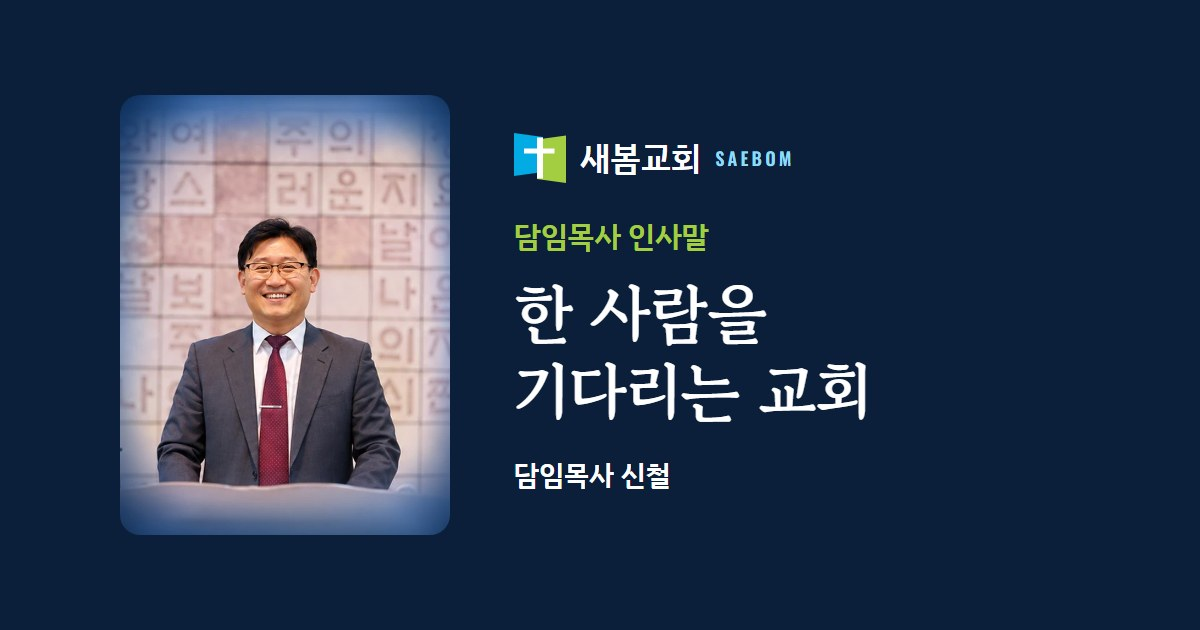
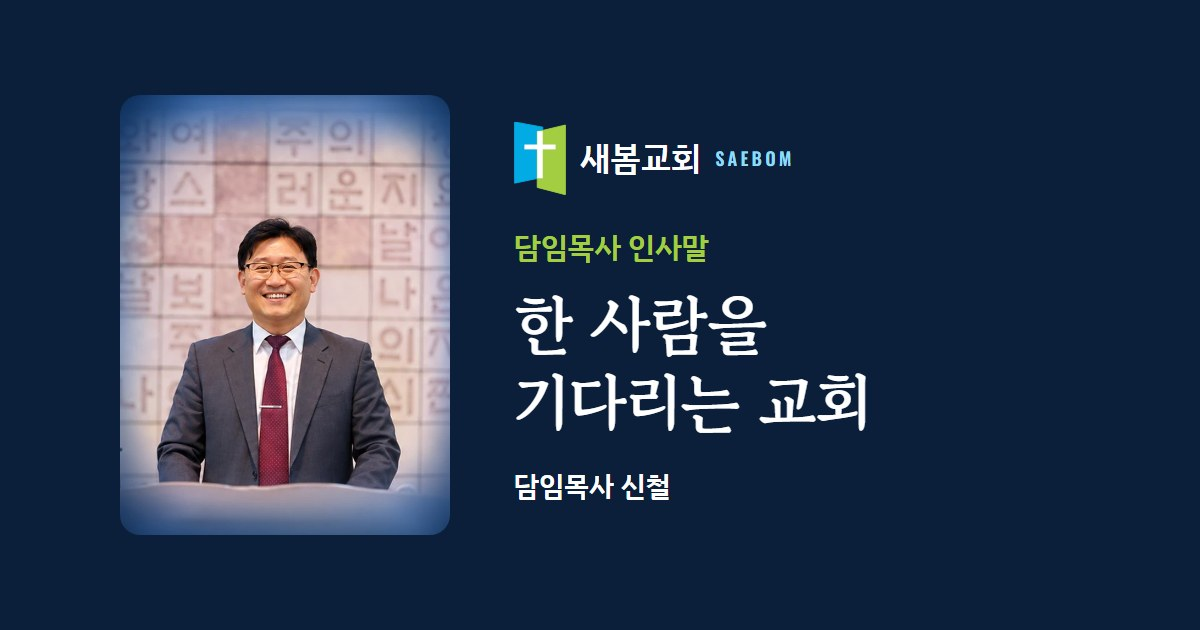
상단 교회 마크 비율 복원(세로형) · 크기 확대(48/40px) · 하단·공유 카드·파비콘 동일 적용
Claude-Session: https://claude.ai/code/session_01RPRtpzurfYbav9nAjE6pkM

diff --git a/index.html b/index.html
@@ -38,7 +38,7 @@
 <body class="dE p-index">
 <a class="skip" href="#main">본문으로 건너뛰기</a>
 <header class="hd"><div class="wrap hd-in">
-<a class="brand" href="index.html"><img src="assets/mark.svg" alt="" width="36" height="35"><span class="bn">새봄교회</span><span class="wm" aria-hidden="true">SAEBOM</span></a>
+<a class="brand" href="index.html"><img src="assets/mark.svg" alt="" width="34" height="48"><span class="bn">새봄교회</span><span class="wm" aria-hidden="true">SAEBOM</span></a>
 <nav class="nav-d" aria-label="주 메뉴"><ul><li><a href="index.html" aria-current="page">홈</a></li><li><a href="welcome.html">처음 오신 분</a></li><li><a href="about.html">교회 소개</a></li><li><a href="greeting.html">인사말</a></li><li><a href="worship.html">예배·모임</a></li><li><a href="sermons.html">말씀</a></li><li><a href="news.html">소식·주보</a></li><li><a href="directions.html">오시는 길</a></li><li><a href="organization.html">단체 정보</a></li><li><a href="en.html">English</a></li></ul></nav>
 <details class="nav-m"><summary><span class="bars" aria-hidden="true"></span><span>메뉴</span></summary><nav aria-label="주 메뉴(휴대폰)"><ul><li><a href="index.html" aria-current="page">홈</a></li><li><a href="welcome.html">처음 오신 분</a></li><li><a href="about.html">교회 소개</a></li><li><a href="greeting.html">인사말</a></li><li><a href="worship.html">예배·모임</a></li><li><a href="sermons.html">말씀</a></li><li><a href="news.html">소식·주보</a></li><li><a href="directions.html">오시는 길</a></li><li><a href="organization.html">단체 정보</a></li><li><a href="en.html">English</a></li></ul></nav></details>
 </div></header>
@@ -93,7 +93,7 @@
 <div class="sec-head"><p class="eyebrow dark">매일 말씀</p><h2 id="d-t" class="h-xl">하루를 말씀으로 시작하세요</h2></div>
 <div class="apps2">
 <a class="app sky" href="https://cheol0929-thejoy.github.io/saebom/app/" rel="noopener" target="_blank"><picture><source type="image/webp" srcset="assets/photo/morning-480.webp 480w, assets/photo/morning-960.webp 960w" sizes="(min-width:900px) 540px, 100vw"><img src="assets/photo/morning-960.jpg" srcset="assets/photo/morning-480.jpg 480w, assets/photo/morning-960.jpg 960w" sizes="(min-width:900px) 540px, 100vw" alt="" width="960" height="640" loading="lazy"></picture><span class="chip">매일</span><b>오늘의 새봄묵상</b><span class="go">열기 <span aria-hidden="true">→</span></span></a>
-<a class="app lime" href="https://cheol0929-thejoy.github.io/saebom/achim/" rel="noopener" target="_blank"><span class="art" aria-hidden="true"><img src="assets/mark.svg" alt="" width="64" height="62"></span><span class="chip">매일</span><b>아침한권</b><span class="go">열기 <span aria-hidden="true">→</span></span></a>
+<a class="app lime" href="https://cheol0929-thejoy.github.io/saebom/achim/" rel="noopener" target="_blank"><span class="art" aria-hidden="true"><img src="assets/mark.svg" alt="" width="45" height="64"></span><span class="chip">매일</span><b>아침한권</b><span class="go">열기 <span aria-hidden="true">→</span></span></a>
 </div>
 </div></section>
 <section class="band lime-tint" aria-labelledby="g-t"><div class="wrap">

diff --git a/assets/theme.css b/assets/theme.css
@@ -18,7 +18,7 @@ p,ul,ol{margin:0 0 1em}
 .hd{background:var(--navy);color:#fff;position:relative;z-index:5}
 .hd-in{display:flex;align-items:center;justify-content:space-between;gap:16px;min-height:72px}
 .brand{display:flex;align-items:center;gap:12px;color:#fff;text-decoration:none}
-.brand img{width:36px;height:auto}
+.brand img{height:48px;width:auto;flex:0 0 auto}
 .brand .bn{font-weight:600;font-size:1.25rem;letter-spacing:-.01em}
 .brand .wm{font-family:var(--num);letter-spacing:.18em;font-size:.8rem;color:var(--sky-lt)}
 .nav-d ul,.nav-m ul{list-style:none;margin:0;padding:0}
@@ -123,7 +123,7 @@ p,ul,ol{margin:0 0 1em}
 .app.sky::after{content:"";position:absolute;inset:0;z-index:-1;background:linear-gradient(0deg,rgba(11,31,58,.88) 10%,rgba(11,31,58,.15) 80%)}
 .app.lime{background:var(--navy3)}
 .app .art{position:absolute;right:28px;top:28px;opacity:.95}
-.app .art img{width:64px}
+.app .art img{height:64px;width:auto}
 .app .chip{align-self:flex-start;font-size:.875rem;font-weight:700;letter-spacing:.1em;padding:4px 12px;border-radius:999px;margin-bottom:12px}
 .app.sky .chip{background:var(--sky);color:var(--navy)}
 .app.lime .chip{background:var(--lime);color:var(--navy)}
@@ -172,7 +172,7 @@ p,ul,ol{margin:0 0 1em}
 @media(min-width:900px){.visit-in{grid-template-columns:320px 1fr;gap:72px}}
 /* inner pages */
 .phero{background:var(--navy);color:#fff;padding:72px 0 64px;position:relative;overflow:hidden}
-.phero::after{content:"";position:absolute;right:max(24px,calc(50% - 536px));top:50%;width:160px;height:156px;transform:translateY(-50%);background:url(mark.svg) no-repeat center/contain;opacity:.2}
+.phero::after{content:"";position:absolute;right:max(24px,calc(50% - 536px));top:50%;width:120px;height:170px;transform:translateY(-50%);background:url(mark.svg) no-repeat center/contain;opacity:.2}
 .phero .wrap{padding-right:208px}
 @media(max-width:700px){.phero::after{display:none}.phero .wrap{padding-right:20px}}
 .phero h1{font-family:var(--serif);font-size:clamp(2.2rem,6vw,3.5rem);margin:0 0 12px;letter-spacing:-.02em}
@@ -244,7 +244,7 @@ tbody th{font-weight:600;white-space:nowrap}
 @media(max-width:600px){
  .wrap{padding:0 20px}
  .hd-in{min-height:64px}
- .brand img{width:32px}
+ .brand img{height:40px}
  .brand .wm{display:none}
  .hero-in{padding-top:72px;padding-bottom:56px;min-height:0;gap:32px}
  .band{padding:56px 0}.quote{padding:56px 0}

diff --git a/organization.html b/organization.html
@@ -38,7 +38,7 @@
 <body class="dE p-organization">
 <a class="skip" href="#main">본문으로 건너뛰기</a>
 <header class="hd"><div class="wrap hd-in">
-<a class="brand" href="index.html"><img src="assets/mark.svg" alt="" width="36" height="35"><span class="bn">새봄교회</span><span class="wm" aria-hidden="true">SAEBOM</span></a>
+<a class="brand" href="index.html"><img src="assets/mark.svg" alt="" width="34" height="48"><span class="bn">새봄교회</span><span class="wm" aria-hidden="true">SAEBOM</span></a>
 <nav class="nav-d" aria-label="주 메뉴"><ul><li><a href="index.html">홈</a></li><li><a href="welcome.html">처음 오신 분</a></li><li><a href="about.html">교회 소개</a></li><li><a href="greeting.html">인사말</a></li><li><a href="worship.html">예배·모임</a></li><li><a href="sermons.html">말씀</a></li><li><a href="news.html">소식·주보</a></li><li><a href="directions.html">오시는 길</a></li><li><a href="organization.html" aria-current="page">단체 정보</a></li><li><a href="en.html">English</a></li></ul></nav>
 <details class="nav-m"><summary><span class="bars" aria-hidden="true"></span><span>메뉴</span></summary><nav aria-label="주 메뉴(휴대폰)"><ul><li><a href="index.html">홈</a></li><li><a href="welcome.html">처음 오신 분</a></li><li><a href="about.html">교회 소개</a></li><li><a href="greeting.html">인사말</a></li><li><a href="worship.html">예배·모임</a></li><li><a href="sermons.html">말씀</a></li><li><a href="news.html">소식·주보</a></li><li><a href="directions.html">오시는 길</a></li><li><a href="organization.html" aria-current="page">단체 정보</a></li><li><a href="en.html">English</a></li></ul></nav></details>
 </div></header>

diff --git a/directions.html b/directions.html
@@ -38,7 +38,7 @@
 <body class="dE p-directions">
 <a class="skip" href="#main">본문으로 건너뛰기</a>
 <header class="hd"><div class="wrap hd-in">
-<a class="brand" href="index.html"><img src="assets/mark.svg" alt="" width="36" height="35"><span class="bn">새봄교회</span><span class="wm" aria-hidden="true">SAEBOM</span></a>
+<a class="brand" href="index.html"><img src="assets/mark.svg" alt="" width="34" height="48"><span class="bn">새봄교회</span><span class="wm" aria-hidden="true">SAEBOM</span></a>
 <nav class="nav-d" aria-label="주 메뉴"><ul><li><a href="index.html">홈</a></li><li><a href="welcome.html">처음 오신 분</a></li><li><a href="about.html">교회 소개</a></li><li><a href="greeting.html">인사말</a></li><li><a href="worship.html">예배·모임</a></li><li><a href="sermons.html">말씀</a></li><li><a href="news.html">소식·주보</a></li><li><a href="directions.html" aria-current="page">오시는 길</a></li><li><a href="organization.html">단체 정보</a></li><li><a href="en.html">English</a></li></ul></nav>
 <details class="nav-m"><summary><span class="bars" aria-hidden="true"></span><span>메뉴</span></summary><nav aria-label="주 메뉴(휴대폰)"><ul><li><a href="index.html">홈</a></li><li><a href="welcome.html">처음 오신 분</a></li><li><a href="about.html">교회 소개</a></li><li><a href="greeting.html">인사말</a></li><li><a href="worship.html">예배·모임</a></li><li><a href="sermons.html">말씀</a></li><li><a href="news.html">소식·주보</a></li><li><a href="directions.html" aria-current="page">오시는 길</a></li><li><a href="organization.html">단체 정보</a></li><li><a href="en.html">English</a></li></ul></nav></details>
 </div></header>

diff --git a/greeting.html b/greeting.html
@@ -38,7 +38,7 @@
 <body class="dE p-greeting">
 <a class="skip" href="#main">본문으로 건너뛰기</a>
 <header class="hd"><div class="wrap hd-in">
-<a class="brand" href="index.html"><img src="assets/mark.svg" alt="" width="36" height="35"><span class="bn">새봄교회</span><span class="wm" aria-hidden="true">SAEBOM</span></a>
+<a class="brand" href="index.html"><img src="assets/mark.svg" alt="" width="34" height="48"><span class="bn">새봄교회</span><span class="wm" aria-hidden="true">SAEBOM</span></a>
 <nav class="nav-d" aria-label="주 메뉴"><ul><li><a href="index.html">홈</a></li><li><a href="welcome.html">처음 오신 분</a></li><li><a href="about.html">교회 소개</a></li><li><a href="greeting.html" aria-current="page">인사말</a></li><li><a href="worship.html">예배·모임</a></li><li><a href="sermons.html">말씀</a></li><li><a href="news.html">소식·주보</a></li><li><a href="directions.html">오시는 길</a></li><li><a href="organization.html">단체 정보</a></li><li><a href="en.html">English</a></li></ul></nav>
 <details class="nav-m"><summary><span class="bars" aria-hidden="true"></span><span>메뉴</span></summary><nav aria-label="주 메뉴(휴대폰)"><ul><li><a href="index.html">홈</a></li><li><a href="welcome.html">처음 오신 분</a></li><li><a href="about.html">교회 소개</a></li><li><a href="greeting.html" aria-current="page">인사말</a></li><li><a href="worship.html">예배·모임</a></li><li><a href="sermons.html">말씀</a></li><li><a href="news.html">소식·주보</a></li><li><a href="directions.html">오시는 길</a></li><li><a href="organization.html">단체 정보</a></li><li><a href="en.html">English</a></li></ul></nav></details>
 </div></header>

diff --git a/sermons.html b/sermons.html
@@ -38,7 +38,7 @@
 <body class="dE p-sermons">
 <a class="skip" href="#main">본문으로 건너뛰기</a>
 <header class="hd"><div class="wrap hd-in">
-<a class="brand" href="index.html"><img src="assets/mark.svg" alt="" width="36" height="35"><span class="bn">새봄교회</span><span class="wm" aria-hidden="true">SAEBOM</span></a>
+<a class="brand" href="index.html"><img src="assets/mark.svg" alt="" width="34" height="48"><span class="bn">새봄교회</span><span class="wm" aria-hidden="true">SAEBOM</span></a>
 <nav class="nav-d" aria-label="주 메뉴"><ul><li><a href="index.html">홈</a></li><li><a href="welcome.html">처음 오신 분</a></li><li><a href="about.html">교회 소개</a></li><li><a href="greeting.html">인사말</a></li><li><a href="worship.html">예배·모임</a></li><li><a href="sermons.html" aria-current="page">말씀</a></li><li><a href="news.html">소식·주보</a></li><li><a href="directions.html">오시는 길</a></li><li><a href="organization.html">단체 정보</a></li><li><a href="en.html">English</a></li></ul></nav>
 <details class="nav-m"><summary><span class="bars" aria-hidden="true"></span><span>메뉴</span></summary><nav aria-label="주 메뉴(휴대폰)"><ul><li><a href="index.html">홈</a></li><li><a href="welcome.html">처음 오신 분</a></li><li><a href="about.html">교회 소개</a></li><li><a href="greeting.html">인사말</a></li><li><a href="worship.html">예배·모임</a></li><li><a href="sermons.html" aria-current="page">말씀</a></li><li><a href="news.html">소식·주보</a></li><li><a href="directions.html">오시는 길</a></li><li><a href="organization.html">단체 정보</a></li><li><a href="en.html">English</a></li></ul></nav></details>
 </div></header>

diff --git a/welcome.html b/welcome.html
@@ -38,7 +38,7 @@
 <body class="dE p-welcome">
 <a class="skip" href="#main">본문으로 건너뛰기</a>
 <header class="hd"><div class="wrap hd-in">
-<a class="brand" href="index.html"><img src="assets/mark.svg" alt="" width="36" height="35"><span class="bn">새봄교회</span><span class="wm" aria-hidden="true">SAEBOM</span></a>
+<a class="brand" href="index.html"><img src="assets/mark.svg" alt="" width="34" height="48"><span class="bn">새봄교회</span><span class="wm" aria-hidden="true">SAEBOM</span></a>
 <nav class="nav-d" aria-label="주 메뉴"><ul><li><a href="index.html">홈</a></li><li><a href="welcome.html" aria-current="page">처음 오신 분</a></li><li><a href="about.html">교회 소개</a></li><li><a href="greeting.html">인사말</a></li><li><a href="worship.html">예배·모임</a></li><li><a href="sermons.html">말씀</a></li><li><a href="news.html">소식·주보</a></li><li><a href="directions.html">오시는 길</a></li><li><a href="organization.html">단체 정보</a></li><li><a href="en.html">English</a></li></ul></nav>
 <details class="nav-m"><summary><span class="bars" aria-hidden="true"></span><span>메뉴</span></summary><nav aria-label="주 메뉴(휴대폰)"><ul><li><a href="index.html">홈</a></li><li><a href="welcome.html" aria-current="page">처음 오신 분</a></li><li><a href="about.html">교회 소개</a></li><li><a href="greeting.html">인사말</a></li><li><a href="worship.html">예배·모임</a></li><li><a href="sermons.html">말씀</a></li><li><a href="news.html">소식·주보</a></li><li><a href="directions.html">오시는 길</a></li><li><a href="organization.html">단체 정보</a></li><li><a href="en.html">English</a></li></ul></nav></details>
 </div></header>

diff --git a/worship.html b/worship.html
@@ -38,7 +38,7 @@
 <body class="dE p-worship">
 <a class="skip" href="#main">본문으로 건너뛰기</a>
 <header class="hd"><div class="wrap hd-in">
-<a class="brand" href="index.html"><img src="assets/mark.svg" alt="" width="36" height="35"><span class="bn">새봄교회</span><span class="wm" aria-hidden="true">SAEBOM</span></a>
+<a class="brand" href="index.html"><img src="assets/mark.svg" alt="" width="34" height="48"><span class="bn">새봄교회</span><span class="wm" aria-hidden="true">SAEBOM</span></a>
 <nav class="nav-d" aria-label="주 메뉴"><ul><li><a href="index.html">홈</a></li><li><a href="welcome.html">처음 오신 분</a></li><li><a href="about.html">교회 소개</a></li><li><a href="greeting.html">인사말</a></li><li><a href="worship.html" aria-current="page">예배·모임</a></li><li><a href="sermons.html">말씀</a></li><li><a href="news.html">소식·주보</a></li><li><a href="directions.html">오시는 길</a></li><li><a href="organization.html">단체 정보</a></li><li><a href="en.html">English</a></li></ul></nav>
 <details class="nav-m"><summary><span class="bars" aria-hidden="true"></span><span>메뉴</span></summary><nav aria-label="주 메뉴(휴대폰)"><ul><li><a href="index.html">홈</a></li><li><a href="welcome.html">처음 오신 분</a></li><li><a href="about.html">교회 소개</a></li><li><a href="greeting.html">인사말</a></li><li><a href="worship.html" aria-current="page">예배·모임</a></li><li><a href="sermons.html">말씀</a></li><li><a href="news.html">소식·주보</a></li><li><a href="directions.html">오시는 길</a></li><li><a href="organization.html">단체 정보</a></li><li><a href="en.html">English</a></li></ul></nav></details>
 </div></header>

diff --git a/about.html b/about.html
@@ -38,7 +38,7 @@
 <body class="dE p-about">
 <a class="skip" href="#main">본문으로 건너뛰기</a>
 <header class="hd"><div class="wrap hd-in">
-<a class="brand" href="index.html"><img src="assets/mark.svg" alt="" width="36" height="35"><span class="bn">새봄교회</span><span class="wm" aria-hidden="true">SAEBOM</span></a>
+<a class="brand" href="index.html"><img src="assets/mark.svg" alt="" width="34" height="48"><span class="bn">새봄교회</span><span class="wm" aria-hidden="true">SAEBOM</span></a>
 <nav class="nav-d" aria-label="주 메뉴"><ul><li><a href="index.html">홈</a></li><li><a href="welcome.html">처음 오신 분</a></li><li><a href="about.html" aria-current="page">교회 소개</a></li><li><a href="greeting.html">인사말</a></li><li><a href="worship.html">예배·모임</a></li><li><a href="sermons.html">말씀</a></li><li><a href="news.html">소식·주보</a></li><li><a href="directions.html">오시는 길</a></li><li><a href="organization.html">단체 정보</a></li><li><a href="en.html">English</a></li></ul></nav>
 <details class="nav-m"><summary><span class="bars" aria-hidden="true"></span><span>메뉴</span></summary><nav aria-label="주 메뉴(휴대폰)"><ul><li><a href="index.html">홈</a></li><li><a href="welcome.html">처음 오신 분</a></li><li><a href="about.html" aria-current="page">교회 소개</a></li><li><a href="greeting.html">인사말</a></li><li><a href="worship.html">예배·모임</a></li><li><a href="sermons.html">말씀</a></li><li><a href="news.html">소식·주보</a></li><li><a href="directions.html">오시는 길</a></li><li><a href="organization.html">단체 정보</a></li><li><a href="en.html">English</a></li></ul></nav></details>
 </div></header>

diff --git a/news.html b/news.html
@@ -38,7 +38,7 @@
 <body class="dE p-news">
 <a class="skip" href="#main">본문으로 건너뛰기</a>
 <header class="hd"><div class="wrap hd-in">
-<a class="brand" href="index.html"><img src="assets/mark.svg" alt="" width="36" height="35"><span class="bn">새봄교회</span><span class="wm" aria-hidden="true">SAEBOM</span></a>
+<a class="brand" href="index.html"><img src="assets/mark.svg" alt="" width="34" height="48"><span class="bn">새봄교회</span><span class="wm" aria-hidden="true">SAEBOM</span></a>
 <nav class="nav-d" aria-label="주 메뉴"><ul><li><a href="index.html">홈</a></li><li><a href="welcome.html">처음 오신 분</a></li><li><a href="about.html">교회 소개</a></li><li><a href="greeting.html">인사말</a></li><li><a href="worship.html">예배·모임</a></li><li><a href="sermons.html">말씀</a></li><li><a href="news.html" aria-current="page">소식·주보</a></li><li><a href="directions.html">오시는 길</a></li><li><a href="organization.html">단체 정보</a></li><li><a href="en.html">English</a></li></ul></nav>
 <details class="nav-m"><summary><span class="bars" aria-hidden="true"></span><span>메뉴</span></summary><nav aria-label="주 메뉴(휴대폰)"><ul><li><a href="index.html">홈</a></li><li><a href="welcome.html">처음 오신 분</a></li><li><a href="about.html">교회 소개</a></li><li><a href="greeting.html">인사말</a></li><li><a href="worship.html">예배·모임</a></li><li><a href="sermons.html">말씀</a></li><li><a href="news.html" aria-current="page">소식·주보</a></li><li><a href="directions.html">오시는 길</a></li><li><a href="organization.html">단체 정보</a></li><li><a href="en.html">English</a></li></ul></nav></details>
 </div></header>

diff --git a/en.html b/en.html
@@ -38,7 +38,7 @@
 <body class="dE p-en">
 <a class="skip" href="#main">본문으로 건너뛰기</a>
 <header class="hd"><div class="wrap hd-in">
-<a class="brand" href="index.html"><img src="assets/mark.svg" alt="" width="36" height="35"><span class="bn">새봄교회</span><span class="wm" aria-hidden="true">SAEBOM</span></a>
+<a class="brand" href="index.html"><img src="assets/mark.svg" alt="" width="34" height="48"><span class="bn">새봄교회</span><span class="wm" aria-hidden="true">SAEBOM</span></a>
 <nav class="nav-d" aria-label="주 메뉴"><ul><li><a href="index.html">홈</a></li><li><a href="welcome.html">처음 오신 분</a></li><li><a href="about.html">교회 소개</a></li><li><a href="greeting.html">인사말</a></li><li><a href="worship.html">예배·모임</a></li><li><a href="sermons.html">말씀</a></li><li><a href="news.html">소식·주보</a></li><li><a href="directions.html">오시는 길</a></li><li><a href="organization.html">단체 정보</a></li><li><a href="en.html" aria-current="page">English</a></li></ul></nav>
 <details class="nav-m"><summary><span class="bars" aria-hidden="true"></span><span>메뉴</span></summary><nav aria-label="주 메뉴(휴대폰)"><ul><li><a href="index.html">홈</a></li><li><a href="welcome.html">처음 오신 분</a></li><li><a href="about.html">교회 소개</a></li><li><a href="greeting.html">인사말</a></li><li><a href="worship.html">예배·모임</a></li><li><a href="sermons.html">말씀</a></li><li><a href="news.html">소식·주보</a></li><li><a href="directions.html">오시는 길</a></li><li><a href="organization.html">단체 정보</a></li><li><a href="en.html" aria-current="page">English</a></li></ul></nav></details>
 </div></header>

diff --git a/sw.js b/sw.js
@@ -2,7 +2,7 @@
    판 번호 V = 사이트의 모든 파일(이 파일 제외) 내용의 해시 → 어떤 파일이든 바뀌면 V 가 바뀌고, 새 판이 켜질 때 옛 저장소(미리 저장분+쓰다가 저장한 것)를 통째로 지운다.
    HTML·CSS·JS·manifest = 네트워크 먼저(4초 안에 답이 없거나 오류 응답이면 저장본; 저장본이 없으면 오류 응답 그대로(404.html 등), 인터넷이 아예 안 될 때만 HTML 은 offline.html) ·
    그림·글꼴 = 저장본을 먼저 보여 주고 뒤에서 새로 받아 둔다 · 다른 주소(유튜브·지도 등)는 손대지 않는다. */
-var V="saebom-site-25120e7679";
+var V="saebom-site-84aea4ddb5";
 var PRE=["./", "index.html", "welcome.html", "about.html", "greeting.html", "worship.html", "sermons.html", "news.html", "directions.html", "organization.html", "privacy.html", "terms.html", "legal.html", "en.html", "offline.html", "manifest.webmanifest", "assets/theme.css", "assets/fonts/fonts.css", "assets/mark.svg", "assets/pwa.js", "assets/og/home.jpg", "assets/icons/icon-192.png", "assets/icons/icon-512.png", "assets/icons/apple-touch-icon.png", "assets/icons/favicon-32.png", "assets/icons/favicon-16.png", "assets/photo/sanct-640.webp", "assets/photo/sanct-1024.webp", "assets/photo/sanct-1600.webp", "assets/photo/pastor-600.webp", "assets/photo/pastor-1200.webp", "assets/photo/pastorsq-400.webp", "assets/photo/pastorsq-800.webp", "assets/og/greeting.jpg"];
 var WAIT=4000;
 self.addEventListener("install",function(e){e.waitUntil(caches.open(V).then(function(c){return c.addAll(PRE.map(function(u){return new Request(u,{cache:"reload"});}));}).then(function(){return self.skipWaiting();}));});
